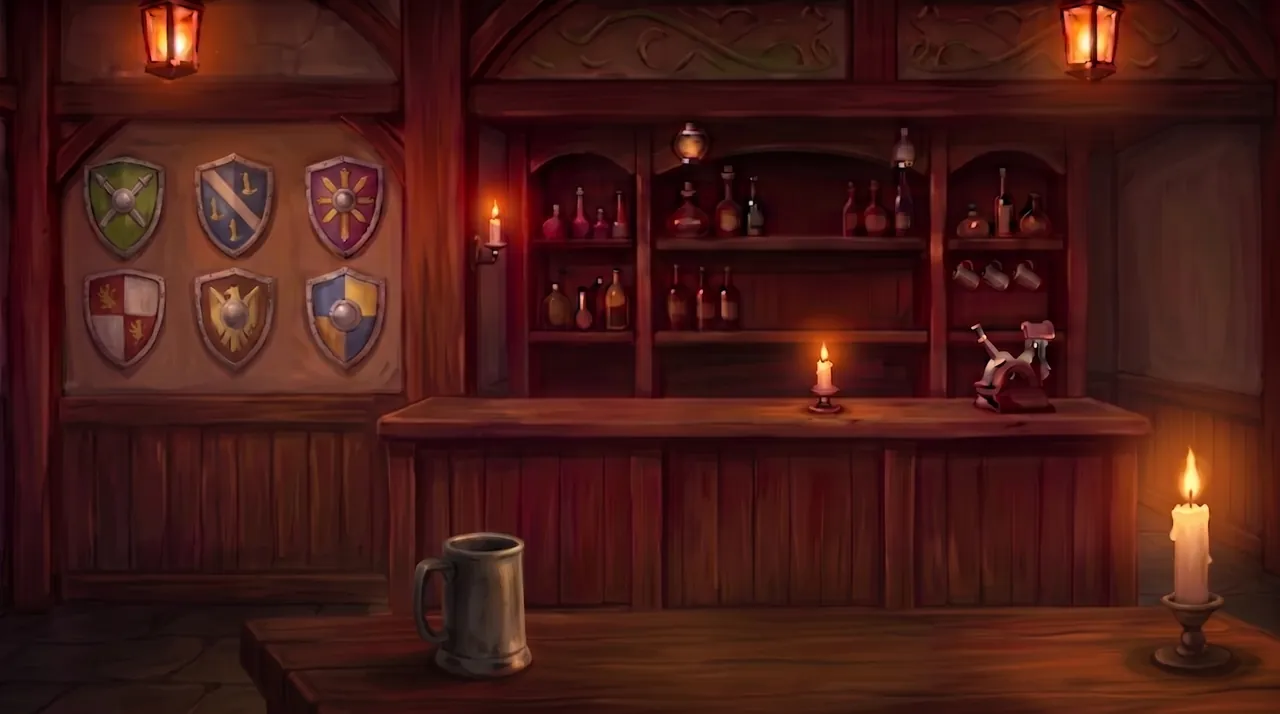
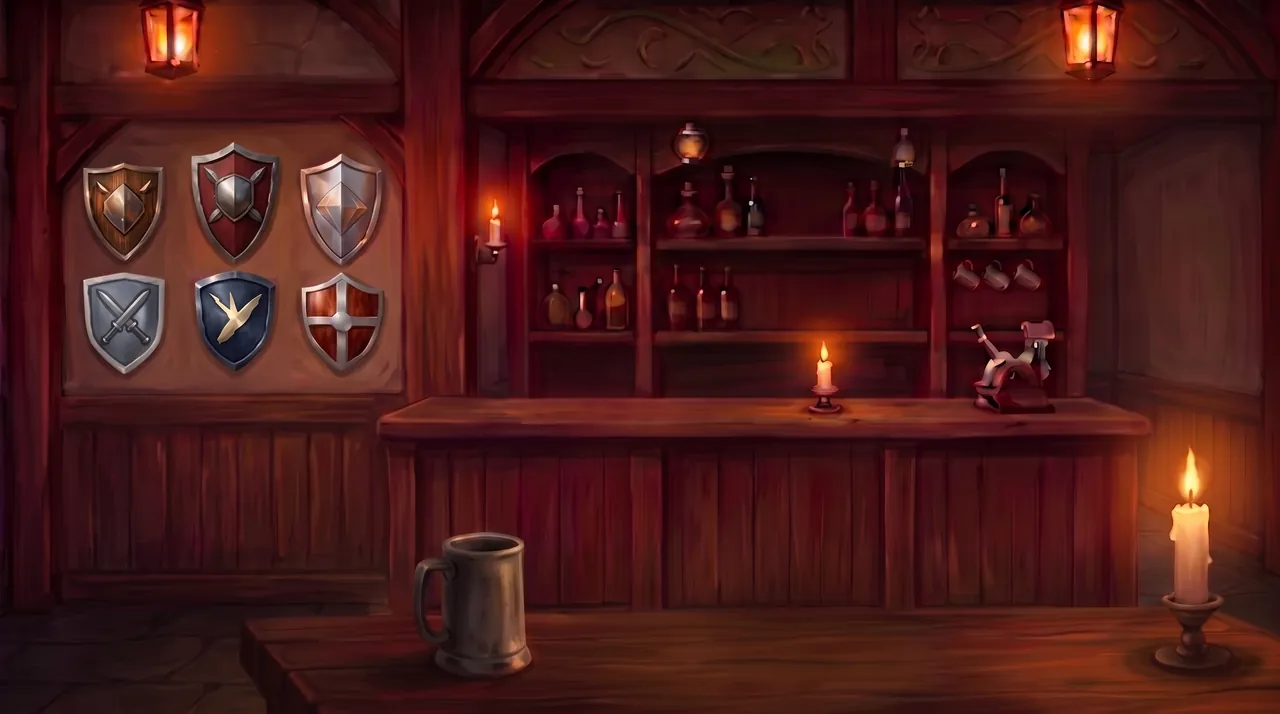
art: regenerate the npc table plate with corrected shield artwork

Changed region(s): [[0.0625, 0.1849, 0.3125, 0.5238]]

diff --git a/art/README.md b/art/README.md
@@ -57,8 +57,8 @@ Rows are in byte-order by filename so this table can be diffed directly against 
 | innkeeper-presenting-device-519.webp | 519×1365 | 46,056 B | sprite |
 | messengers-corner-1280.webp | 1280×714 | 33,810 B | background |
 | messengers-corner-2560.webp | 2560×1429 | 88,452 B | background |
-| npc-table-1280.webp | 1280×714 | 37,846 B | background |
-| npc-table-2560.webp | 2560×1429 | 85,856 B | background |
+| npc-table-1280.webp | 1280×714 | 41,634 B | background |
+| npc-table-2560.webp | 2560×1429 | 93,946 B | background |
 | npc-table-front-1280.webp | 1280×714 | 13,488 B | foreground plate, alpha |
 | npc-table-front-2560.webp | 2560×1429 | 31,684 B | foreground plate, alpha |
 | quest-board-1192.webp | 1192×662 | 36,972 B | sprite |
@@ -101,7 +101,7 @@ Rows are in byte-order by filename so this table can be diffed directly against 
 | Route | Layers | Bytes at largest variant | Share of 600 KB per-scene budget |
 |-------|--------|--------------------------|----------------------------------|
 | `/tavern` | 1 of 5 (D106) | 364,162 B (larger twin of each pair, plus untwinned files; desktop transfer) | 60.7% |
-| `/tavern/npc` | 2 of 5 | 183,060 B | 30.5% |
+| `/tavern/npc` | 2 of 5 | 199,414 B | 32.5% |
 
 `npc-table-*` is the `/tavern/npc` close-up background and `npc-table-front-*` is the foreground table plate drawn above the sprite; `tavern-regular-bust-*` is the
 seated Tavern Regular composited over it. The camera sits beside the Regular's table rather
@@ -114,6 +114,7 @@ from its own image; do not assume one ratio across routes.
 
 Produced by:
 
-    npm run art art/source/tavern-npc-table.jpg npc-table
+    npm run art art/source/tavern-npc-table-v2.jpg npc-table
+    (Source is now tavern-npc-table-v2.jpg, regenerated 2026-09-01 with corrected shield artwork.)
     npm run art art/cutout/npc-table-front.png npc-table-front 2560,1280
     npm run art art/cutout/tavern-regular-bust.png tavern-regular-bust 1024,512
